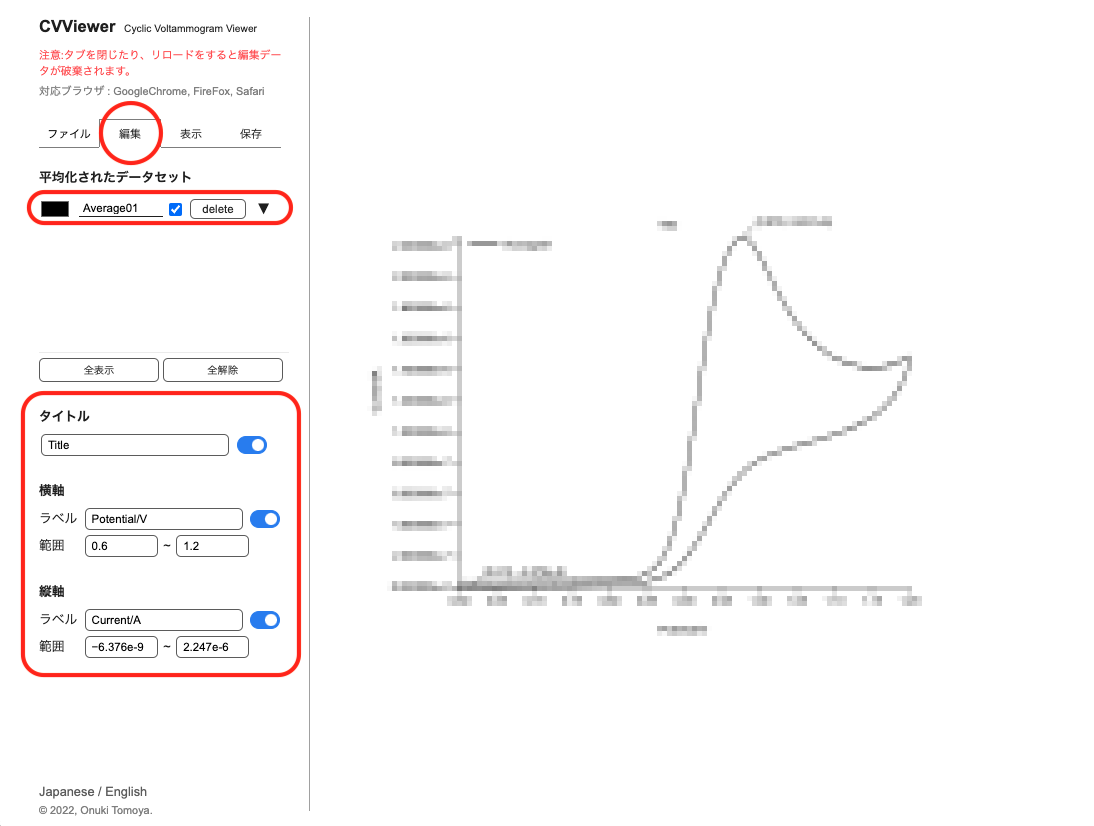
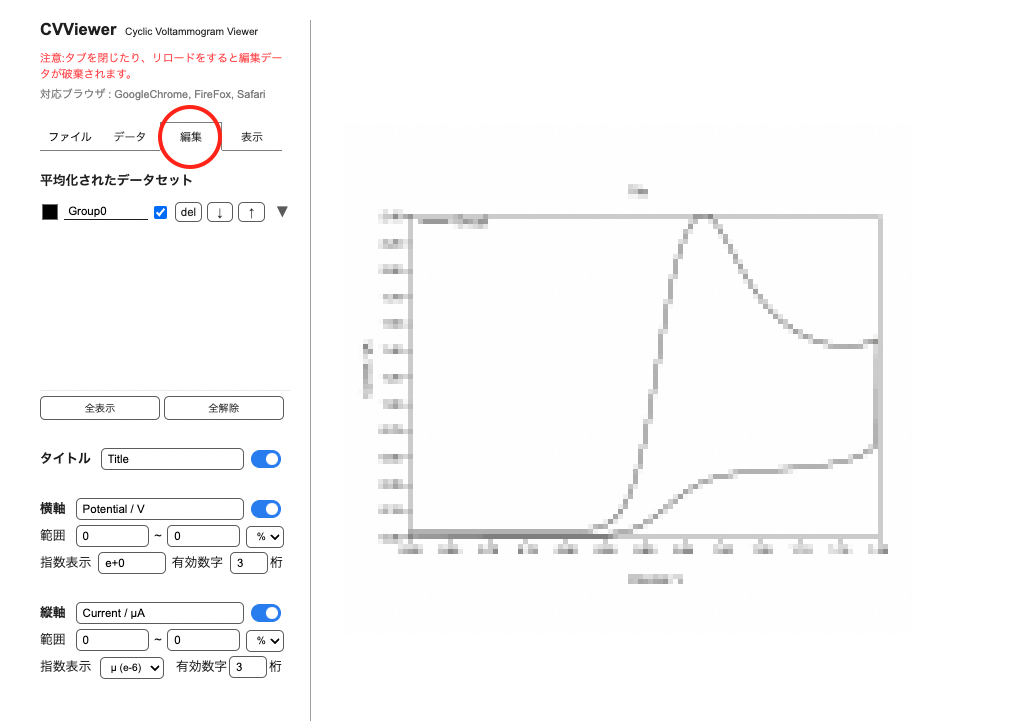
update README

diff --git a/README.md b/README.md
@@ -1,21 +1,24 @@
+[Japanese](./README.md) / [English](./readme_en.md)
+
 # CVViewer
 2022.08.9  
 小貫智弥  
 
-https://tomoya-onuki.github.io/CVViewer/
 
-[English](./readme_en.md)
+<a href="https://tomoya-onuki.github.io/CVViewer/" target="_blank">https://tomoya-onuki.github.io/CVViewer/</a>
+
 
 ## CVViewerとは
 サイクリックボルタンメトリー (cyclic voltammetry, CV) という電気化学計測によって得られたデータを可視化するためのツールです。サイクリックボルタンメトリーとは応答電流を測定する手法であり、電気化学分野において最も基本的かつ多用される測定法です。
 
 ## 使い方
-### 1.データの読み込みと平均化
+### 1. データの読み込み
 1. 「ファイルタブ」上で、ファイルをドロップして読み込みます
 
    <img src="./img/01.png" width="60%">  
 
-2. 平均を出したいデータのチェックボックスをチェックします。
+### 2. データの平均化
+1. 「データタブ」上で平均を出したいデータのチェックボックスをチェックします。
 3. 平均化ボタンを押します。このときラベルを設定することもできます。
 
    <img src="./img/02.png" width="60%">
@@ -24,42 +27,51 @@ https://tomoya-onuki.github.io/CVViewer/
 
 <br><br>
 
-### 2.データセットの確認とグラフの編集
+### 3. データセットの確認とグラフの編集
 1. 「編集タブ」上で、平均化したデータセットを確認します。
 2. このデータセットのラベルは1-3で指定したものと対応しています。指定しなかった場合は自動で名前がついています。テキストをクリックして編集できます。
- 
-   <img src="./img/03.png" width="60%"> 
-
-   *グラフにはモザイク処理をしています
-
 3. テキストの左隣の黒い四角をクリックすると、グラフの色を設定できます
-
-   <img src="./img/05.png" width="60%">
-
 4. ▼ボタンを押すと、含まれているデータを確認できます
 5. タイトルと各軸のラベルを設定します
 6. 各軸の範囲を指定します
+
+   <img src="./img/03.png" width="60%"> 
+
+   *グラフにはモザイク処理をしています
    
 <br><br>
 
-### 3.グラフのデザイン
+### 4. グラフのデザイン
 1. 「表示タブ」で行います
 2. 線のタイプを選びます。
 3. ピーク値やグリッド、凡例を必要に応じて表示/非表示します。
 
-   <img src="./img/06.png" width="60%">
+   <img src="./img/04.png" width="60%">
 
 <br><br>
 
-### 4.グラフを保存
-1. 「保存タブ」からグラフをダウンロードすることができます。(PNG形式)
-  *再編集は不可能です
+### 5. グラフを保存
+1. 「ファイルタブ」からグラフをダウンロードすることができます。
+2. 画像で保存する場合はPNGを選択します。
+3. 解像度を選択します。
+4. ダウンロードボタンを押します。
 
+<br><br>
+
+### 6. グラフの再現・再編集
+1. 「ファイルタブ」でjsonを選択し保存します。
+2. 保存されたjsonファイル(.cvv.json)を「ファイルタブ」で読み込むとグラフが再現されます。
 
 <br><br><br>
 
 ## リリースノート
-- ver1.1 (2022/ 8/10) グラフの重ね順を変える機能を追加
+- ver2.0 (2022/ 8/16) 
+  - 軸の指数表記と有効数字を設定できる
+  - JSONファイルでの書き出したファイルを読み込むことで再編集できる
+  - グラフの周囲の囲みを表示できる
+  - 最大値と最小値の表示/非表示を独立に選択できる
+  - ファイルを読み込むと自動的にデータタブへ移動する
+- ver1.1 (2022/ 8/10) グラフの重ね順を変えることができる
 - ver1.0 (2022/ 8/ 9) 基本機能
 
 <br><br><br>

diff --git a/readme_en.md b/readme_en.md
@@ -1,21 +1,25 @@
+[Japanese](./README.md) / [English](./readme_en.md)
+
 # CVViewer
 2022.08.10  
 Tomoya Onuki  
 
-https://tomoya-onuki.github.io/CVViewer/en/
+<a href="https://tomoya-onuki.github.io/CVViewer/en/" target="_blank">https://tomoya-onuki.github.io/CVViewer/en/</a>
 
-[Japanese](./README.md)
+
+Translated by [deepl.com](https://www.deepl.com/)
 
 ## Introduction
 A tool for visualizing electrochemical measurement data called cyclic voltammetry (CV). Cyclic voltammetry is a technique for measuring response current, and is the most basic and frequently used measurement method in the field of electrochemistry.
 
 ## Usage
-### 1.Loading Data and Averaging
+### 1. Loading Data
 1. In "File" tab, Drop files or Click to select from folder.
   
    <img src="./img/01_en.png" width="60%">  
 
-1. Tick check boxs to average.
+### 2. Averaging
+1. In "Data" tab, Tick check boxs to average.
 2. Click to "Averaging" button. Be able to set labels.
 
    <img src="./img/02_en.png" width="60%">
@@ -24,41 +28,51 @@ A tool for visualizing electrochemical measurement data called cyclic voltammetr
 
 <br><br>
 
-### 2.Datasets and Edit Chart
+### 3. Datasets and Edit Chart
 1. In "Edit" tab, check averaged datasets.
 2. Labels of datasets ware setted in 1-3. Label ware setted automaticaly, when you did't set labels. You are abele to edit label to click text form.
+3. Click the black rectangl to set up line color.
+4. Click "▼", to check data that are concluded in a dataset.
+5. Set labels of title and axes.
+6. Set ranges of axes
   
    <img src="./img/03_en.png" width="60%">
    
    *Graphs are mosaicked.
 
-1. Click the black rectangl to set up line color.
-  
-   <img src="./img/05_en.png" width="60%">
-
-2. Click "▼", to check data that are concluded in a dataset.
-3. Set labels of title and axes.
-4. Set ranges of axes
 
    <br><br>
 
-### 3.Chart Design
+### 4. Chart Design
 1. In "View" tab.
 2. Select line type.
 3. If necessary, Show / hide peak values, grid line and legend.
 
-   <img src="./img/06_en.png" width="60%">
+   <img src="./img/04_en.png" width="60%">
 
 <br><br>
 
-### 4.Donwload chart
-1. In "Save" tab, you download a chart. The format is PNG.
-  *You can not re-edit the chart.
+### 5. Donwload Chart
+1. you can download the graph from the "File tab".
+2. select PNG to save as an image.
+3. Select the resolution.
+4. Press the "Download" button.
 
+<br><br>
+
+### 6. Re-edit Chart
+Select and save the json file in the "File tab". 2.
+Load the saved json file (.cvv.json) in the "File tab" to reproduce the graph.
 
 <br><br><br>
 
 ## Release Note
+- ver2.0 (2022/ 8/16) 
+  - Can set index notation and significant figures for axes.
+  - Re-editing can be done by reading the exported JSON file.
+  - Display of surroundings around graphs.
+  - Independently selectable display/non-display of maximum and minimum values.
+  - Automatic navigation to the Data tab when a file is read in tool.
 - ver1.1 (2022/ 8/10) Users can change the order of overlaying charts.
 - ver1.0 (2022/ 8/ 9) Basic
 
